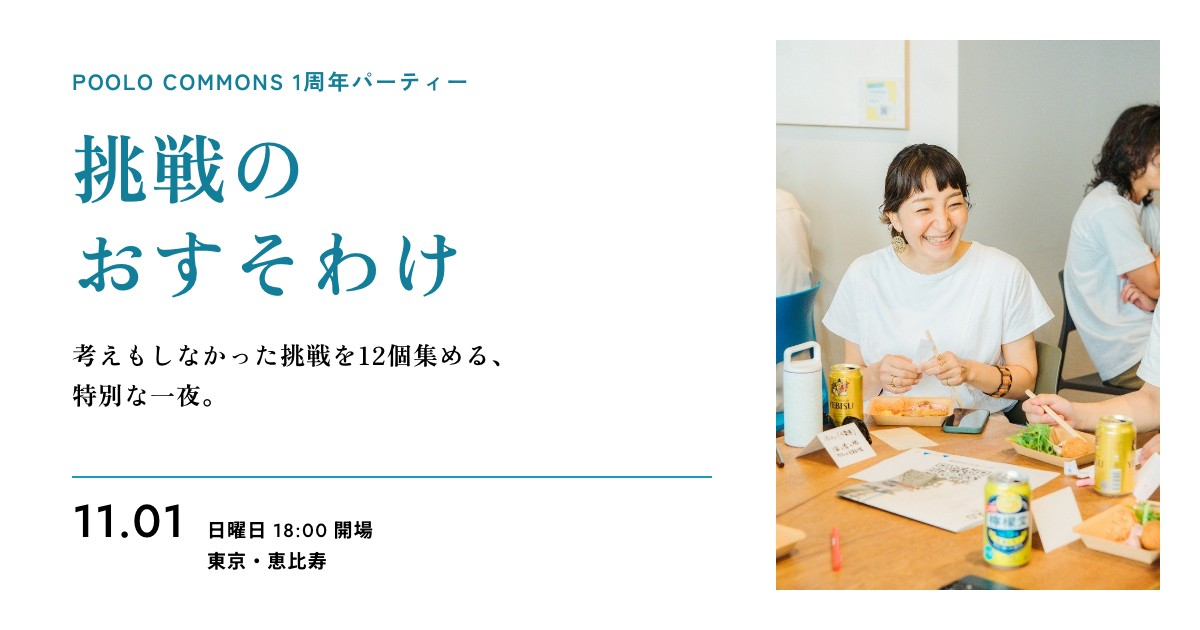
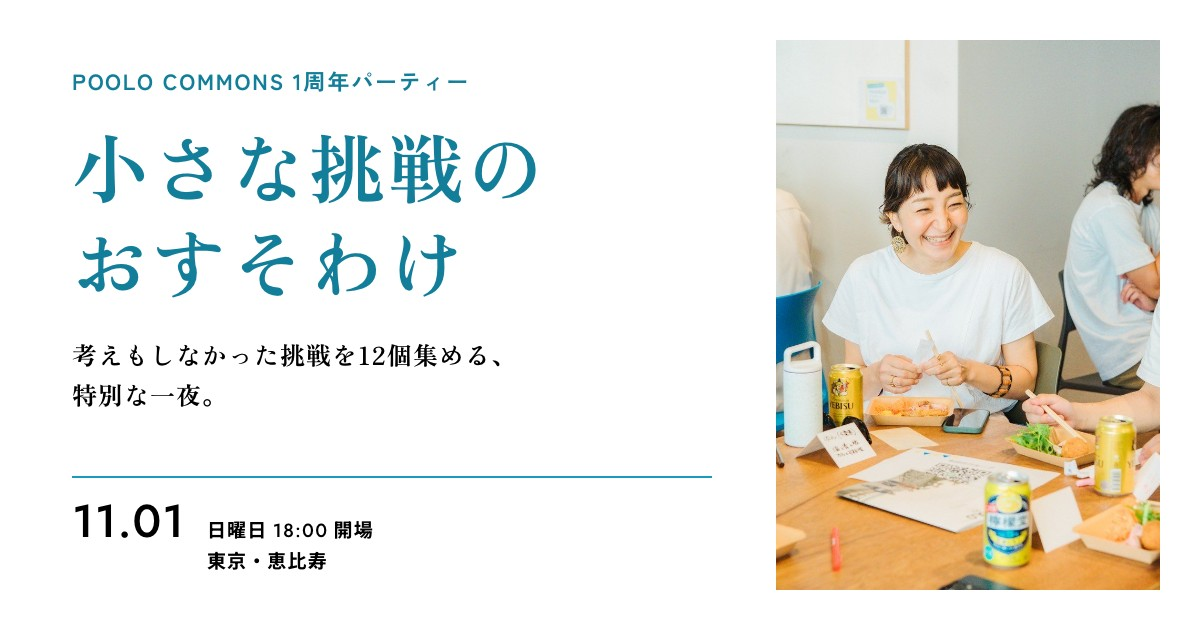
COMMONS 1周年LP：タイトルを「小さな挑戦のおすそわけ」に（ページ・OG画像・カード）

Changed region(s): [[0.0617, 0.2111, 0.4625, 0.3317]]

diff --git a/event-commons-1st/index.html b/event-commons-1st/index.html
@@ -5,11 +5,11 @@
 <meta name="viewport" content="width=device-width, initial-scale=1.0">
 <!-- ▼たたき台（261008）。確定前のプレビューのため検索避け -->
 <meta name="robots" content="noindex">
-<title>挑戦のおすそわけ｜POOLO COMMONS 1周年パーティー</title>
+<title>小さな挑戦のおすそわけ｜POOLO COMMONS 1周年パーティー</title>
 <meta name="description" content="旅好きの挑戦と習慣化のコミュニティ POOLO COMMONSの1周年パーティー。2026年11月1日（日）18:00から恵比寿で、来た人どうしで挑戦を教え合い、考えもしなかった挑戦を12個集めます。三日坊主の方も、手ぶらで来てください。">
 <meta property="og:type" content="website">
 <meta property="og:url" content="https://michinorionda.github.io/poolo-life/event-commons-1st/">
-<meta property="og:title" content="挑戦のおすそわけ｜POOLO COMMONS 1周年パーティー 11月1日（日）">
+<meta property="og:title" content="小さな挑戦のおすそわけ｜POOLO COMMONS 1周年パーティー 11月1日（日）">
 <meta property="og:description" content="2026年11月1日（日）18:00開場、恵比寿。来た人どうしで挑戦を教え合い、考えもしなかった挑戦を12個集める、POOLO COMMONSの1周年パーティーです。参加費3,000円・定員30名。">
 <meta property="og:image" content="https://michinorionda.github.io/poolo-life/event-commons-1st/images/og.jpg">
 <meta property="og:image:width" content="1200">
@@ -17,7 +17,7 @@
 <meta property="og:locale" content="ja_JP">
 <meta property="og:site_name" content="POOLO COMMONS">
 <meta name="twitter:card" content="summary_large_image">
-<meta name="twitter:title" content="挑戦のおすそわけ｜POOLO COMMONS 1周年パーティー 11月1日（日）">
+<meta name="twitter:title" content="小さな挑戦のおすそわけ｜POOLO COMMONS 1周年パーティー 11月1日（日）">
 <meta name="twitter:description" content="2026年11月1日（日）18:00開場、恵比寿。来た人どうしで挑戦を教え合い、考えもしなかった挑戦を12個集める、POOLO COMMONSの1周年パーティーです。参加費3,000円・定員30名。">
 <meta name="twitter:image" content="https://michinorionda.github.io/poolo-life/event-commons-1st/images/og.jpg">
 
@@ -535,7 +535,7 @@ br.pc-br { display: none; }
 <div class="fa" id="floatApply">
   <div class="fa-inner">
     <div class="fa-texts">
-      <span class="fa-main">POOLO COMMONS 1周年パーティー　挑戦のおすそわけ</span>
+      <span class="fa-main">POOLO COMMONS 1周年パーティー　小さな挑戦のおすそわけ</span>
       <span class="fa-sub"><span class="num">11/1</span>（日）<span class="num">18:00</span> 開場・恵比寿・<span class="num">3,000</span>円・手ぶらで参加できます</span>
     </div>
     <a class="btn" href="#apply">LINEで申し込む</a>
@@ -555,7 +555,7 @@ br.pc-br { display: none; }
 <section class="fv">
   <div class="fv-top">
     <div class="fv-copy">
-      <h1 class="mc"><span class="mc-pre"><span class="nb">POOLO COMMONS</span> <span class="nb">1周年パーティー</span></span><span class="nb">挑戦の</span><br><span class="nb">おすそわけ</span></h1>
+      <h1 class="mc"><span class="mc-pre"><span class="nb">POOLO COMMONS</span> <span class="nb">1周年パーティー</span></span><span class="nb">小さな挑戦の</span><br><span class="nb">おすそわけ</span></h1>
       <p class="sheet-text fv-catch"><span class="nb">考えもしなかった挑戦を</span><span class="nb">12個集める、</span><span class="nb">特別な一夜。</span></p>
       <div class="lead fv-lead"><p><span class="nb">旅好きの挑戦と習慣化のコミュニティ</span><br><span class="nb">POOLO COMMONSは、</span><span class="nb">この11月で1周年。</span><br><span class="nb">それを記念して、</span><span class="nb">恵比寿でパーティーを開催します。</span></p><p><span class="nb">乾杯したあとは、</span><span class="nb">来た人どうしで</span><span class="nb">挑戦をシェアする時間。</span><br><span class="nb">話を聞いた相手の名前と挑戦を、</span><br><span class="nb">手元の12マスのカードに</span><span class="nb">書き込んでいきます。</span></p><p><span class="nb">集めるのは、</span><span class="nb">自分ではやったことも</span><span class="nb">考えたこともない挑戦だけ。</span><br><span class="nb">カードが埋まるころには、</span><br><span class="nb">来年やってみたいことが</span><span class="nb">いくつか見つかっている、</span><span class="nb">そんな夜です。</span></p></div>
       <div class="date">
@@ -597,11 +597,11 @@ br.pc-br { display: none; }
   </div>
 </section>
 
-<!-- ===== 挑戦のおすそわけの遊び方 ===== -->
+<!-- ===== 小さな挑戦のおすそわけの遊び方 ===== -->
 <section class="program">
   <div class="in col">
-    <h2 class="h2"><span class="nb">挑戦のおすそわけの</span><span class="nb">遊び方</span></h2>
-    <p class="lead"><span class="nb">人の挑戦を</span><span class="nb">少しずつ分けてもらって、</span><span class="nb">最後にひとつを</span><span class="nb">自分の分として持ち帰る。</span><span class="nb">それで「挑戦のおすそわけ」と</span><span class="nb">名づけました。</span><span class="nb">遊び方は</span><span class="nb">12マスのビンゴです。</span></p>
+    <h2 class="h2"><span class="nb">小さな挑戦のおすそわけの</span><span class="nb">遊び方</span></h2>
+    <p class="lead"><span class="nb">人の挑戦を</span><span class="nb">少しずつ分けてもらって、</span><span class="nb">最後にひとつを</span><span class="nb">自分の分として持ち帰る。</span><span class="nb">それで「小さな挑戦のおすそわけ」と</span><span class="nb">名づけました。</span><span class="nb">遊び方は</span><span class="nb">12マスのビンゴです。</span></p>
     <ol class="steps">
       <li class="step">
         <div class="step-key"><img class="no" src="images/num-01.svg" alt="01"><span class="label">受付で</span></div>
@@ -634,7 +634,7 @@ br.pc-br { display: none; }
     <h2 class="h2">おすそわけのカード</h2>
     <p class="lead"><span class="nb">当日は、</span><span class="nb">このカードを</span><span class="nb">1人1枚お渡しします。</span><span class="nb">横に3つか縦に4つそろうと、</span><span class="nb">ドリンクを1杯どうぞ。</span><span class="nb">12マス全部埋まった方には、</span><span class="nb">景品があります。</span></p>
     <figure class="card-fig">
-      <img src="images/osusowake_card.jpg" alt="挑戦のおすそわけのカード。3列4行の12マスに、お題・名前・挑戦の欄がある。お題は、自分と違う仕事の人の挑戦、10歳以上はなれた人の挑戦、自分が行ったことのない土地でした挑戦、聞いて思わず笑った挑戦、自分なら3日でやめそうな挑戦、1円もかからない挑戦、1日で終わった挑戦、10年続いている習慣、人に言うのが少し恥ずかしい挑戦、COMMONSの月のテーマでやった挑戦、まだ誰にも話していない挑戦、明日からできそうな挑戦" loading="lazy">
+      <img src="images/osusowake_card.jpg" alt="小さな挑戦のおすそわけのカード。3列4行の12マスに、お題・名前・挑戦の欄がある。お題は、自分と違う仕事の人の挑戦、10歳以上はなれた人の挑戦、自分が行ったことのない土地でした挑戦、聞いて思わず笑った挑戦、自分なら3日でやめそうな挑戦、1円もかからない挑戦、1日で終わった挑戦、10年続いている習慣、人に言うのが少し恥ずかしい挑戦、COMMONSの月のテーマでやった挑戦、まだ誰にも話していない挑戦、明日からできそうな挑戦" loading="lazy">
       <figcaption>カードのイメージです。お題は例で、当日は変わることがあります。</figcaption>
     </figure>
   </div>
@@ -717,7 +717,7 @@ br.pc-br { display: none; }
     <h2 class="h2">開催概要</h2>
     <div class="ov-wrap">
       <dl class="ov">
-        <div class="ov-row"><dt>名称</dt><dd><strong>POOLO COMMONS 1周年パーティー 挑戦のおすそわけ</strong></dd></div>
+        <div class="ov-row"><dt>名称</dt><dd><strong>POOLO COMMONS 1周年パーティー 小さな挑戦のおすそわけ</strong></dd></div>
         <div class="ov-row"><dt>日時</dt><dd><strong>2026年11月1日（日）18:00開場・18:30乾杯</strong><br>21:00終了。途中からの参加、途中でのお帰りもできます</dd></div>
         <div class="ov-row"><dt>会場</dt><dd>coba恵比寿</dd></div>
         <div class="ov-row"><dt>定員</dt><dd><strong>30名</strong></dd></div>
@@ -760,7 +760,7 @@ br.pc-br { display: none; }
       </div>
       <p class="date-line">東京・恵比寿・参加費<span class="num">3,000</span>円・手ぶらで参加できます</p>
       <a class="btn" href="#apply">LINEで申し込む</a>
-      <p class="apply-steps">1. POOLO公式LINEを友だち追加<br>2. LINE内の案内から「挑戦のおすそわけ」に申し込む<br>3. 参加費3,000円をクレジットカードで支払う</p>
+      <p class="apply-steps">1. POOLO公式LINEを友だち追加<br>2. LINE内の案内から「小さな挑戦のおすそわけ」に申し込む<br>3. 参加費3,000円をクレジットカードで支払う</p>
       <dl class="apply-note"><dt>申込締切</dt><dd>先着順です。定員の30名に達したところで締め切ります。</dd></dl>
     </div>
   </div>

diff --git a/event-commons-1st/bingo-card.html b/event-commons-1st/bingo-card.html
@@ -4,11 +4,11 @@
 <meta charset="UTF-8">
 <meta name="viewport" content="width=device-width, initial-scale=1.0">
 <meta name="robots" content="noindex">
-<title>挑戦のおすそわけ カード｜POOLO COMMONS 1周年パーティー</title>
+<title>小さな挑戦のおすそわけ カード｜POOLO COMMONS 1周年パーティー</title>
 <link rel="stylesheet" href="../poolo-ds/tokens.css">
 <style>
 /* =============================================================
-   挑戦のおすそわけ カード（A5縦・148×210mm、印刷用）
+   小さな挑戦のおすそわけ カード（A5縦・148×210mm、印刷用）
    会場で立ったまま書くので、マスは3列×4行。1マス＝お題＋名前＋挑戦。
    右上の丸は「いちばん考えもしなかった挑戦」に印をつける場所。
    ============================================================= */
@@ -72,7 +72,7 @@ body { background: #E9ECED; font-family: var(--body); color: var(--ink-soft); -w
   <header class="hd">
     <div>
       <p class="hd-pre" style="margin:0">POOLO COMMONS 1周年パーティー</p>
-      <h1 class="hd-title" style="margin:0">挑戦のおすそわけ</h1>
+      <h1 class="hd-title" style="margin:0">小さな挑戦のおすそわけ</h1>
     </div>
     <div class="hd-right">
       <div class="hd-date">2026.11.01</div>

diff --git a/event-commons-1st/og-source.html b/event-commons-1st/og-source.html
@@ -3,7 +3,7 @@
 <head>
 <meta charset="UTF-8">
 <meta name="robots" content="noindex">
-<title>OG画像の元｜POOLO COMMONS 1周年パーティー 挑戦のおすそわけ</title>
+<title>OG画像の元｜POOLO COMMONS 1周年パーティー 小さな挑戦のおすそわけ</title>
 <link rel="stylesheet" href="../poolo-ds/tokens.css">
 <style>
 /* OG画像（1200×630）。左に白地の文字、右に写真。写真と文字は重ねない */
@@ -26,7 +26,7 @@ body { width: 1200px; height: 630px; overflow: hidden; background: #fff; font-fa
 <div class="og">
   <div class="txt">
     <p class="pre">POOLO COMMONS 1周年パーティー</p>
-    <h1 class="title">挑戦の<br>おすそわけ</h1>
+    <h1 class="title">小さな挑戦の<br>おすそわけ</h1>
     <p class="catch">考えもしなかった挑戦を12個集める、<br>特別な一夜。</p>
     <div class="meta">
       <span class="d">11.01</span>
